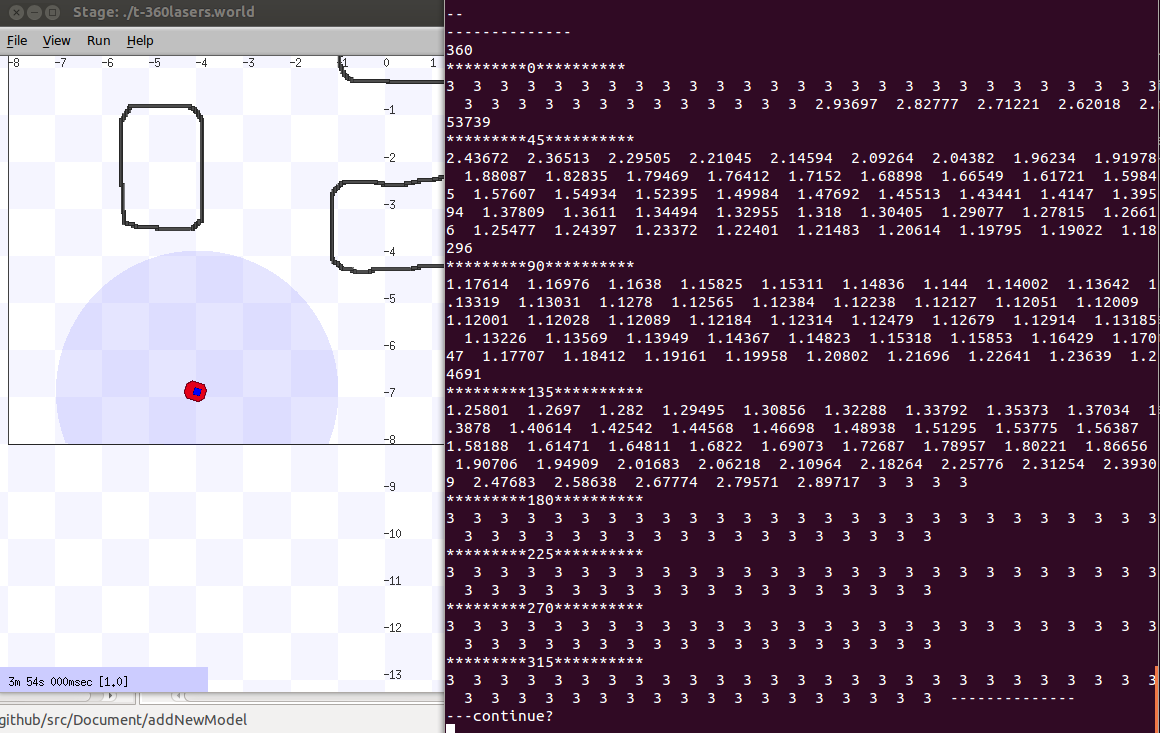
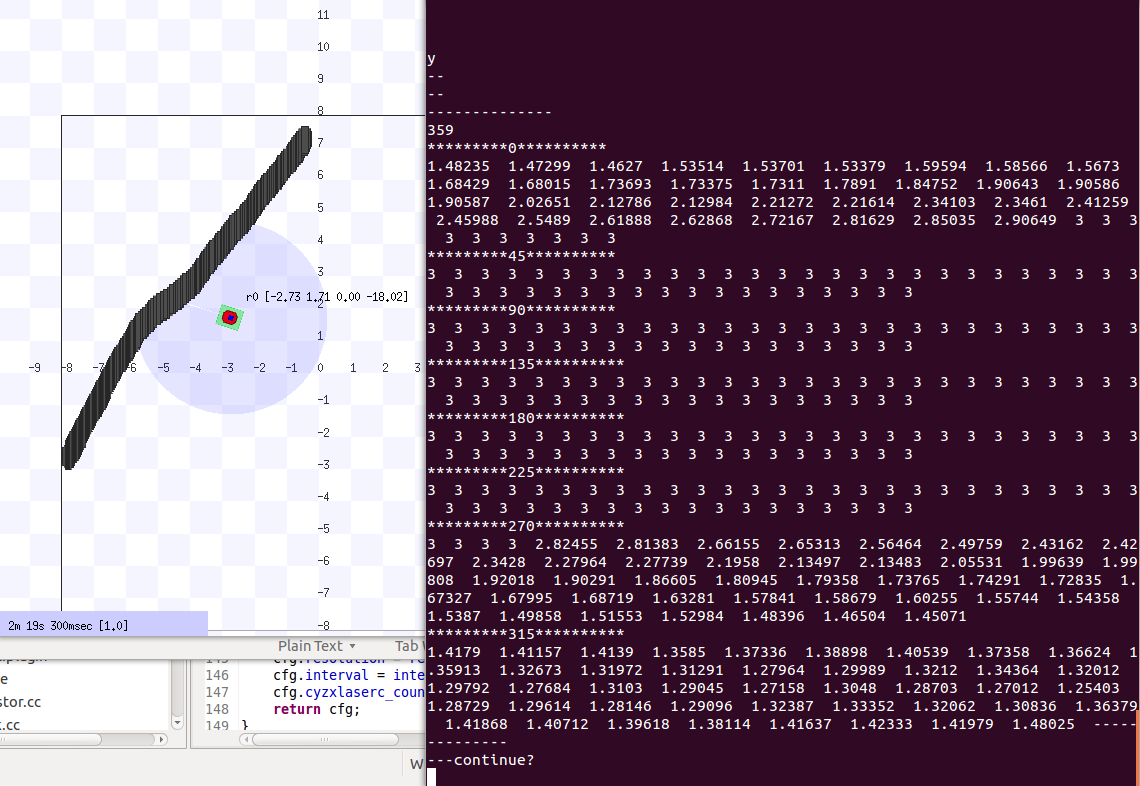
change 360 lasers to 359

Changed region(s): [[0.0, 0.0, 1.0, 1.0], [0.2763, 0.4202, 0.307, 0.4502], [0.1842, 0.3902, 0.2149, 0.4202]]

diff --git a/src/Stage-3.2.2-Source/libstage/model_laser.cc b/src/Stage-3.2.2-Source/libstage/model_laser.cc
@@ -28,8 +28,10 @@ static const stg_radians_t DEFAULT_FOV = M_PI;
 static const unsigned int DEFAULT_SAMPLES = 180;
 static const unsigned int DEFAULT_RESOLUTION = 1;
 static const char* DEFAULT_COLOR = "blue";
-static int laserC = 360; // add by ke to control laser numbers
-static int laserA = 360;
+//static int laserC = 360; // add by ke to control laser numbers
+static int laserC = 359;
+//static int laserA = 360;
+static int laserA = 359;
 static int laserPerA = laserC / laserA;
 static const unsigned int DEFAULT_CYZXLASER = 22;
 
@@ -118,7 +120,8 @@ void ModelLaser::Load(void) {
 	sample_count = laserCount;
 	range_max = wf->ReadLength(wf_entity, "range_max", range_max);
 	//fov = wf->ReadAngle(wf_entity, "fov", fov);
-	fov =  6.2831853071795862; 	//there not 360 degree
+	//fov =  6.2831853071795862; 	//there not 360 degree
+	fov = 6.2657320146596431;
 	resolution = wf->ReadInt(wf_entity, "resolution", resolution);
 
 	if (resolution < 1) {

diff --git a/src/Stage-3.2.2-Source/libstageplugin-my/p_laser.cc b/src/Stage-3.2.2-Source/libstageplugin-my/p_laser.cc
@@ -147,7 +147,7 @@ void InterfaceLaser::Publish(void) {
 		}
 		stg_meters_t stg1=cyzxlc[i].range_max;
 		double d1;
-		for(unsigned int j=cyzxlc[i].angle_from;j<cyzxlc[i].angle_to;j++){
+		for(unsigned int j=cyzxlc[i].angle_from;j<cyzxlc[i].angle_to&&j<cfg.sample_count;j++){
 			if(samples[j].range < stg1){
 				stg1=samples[j].range;
 				d1= samples[j].reflectance;
